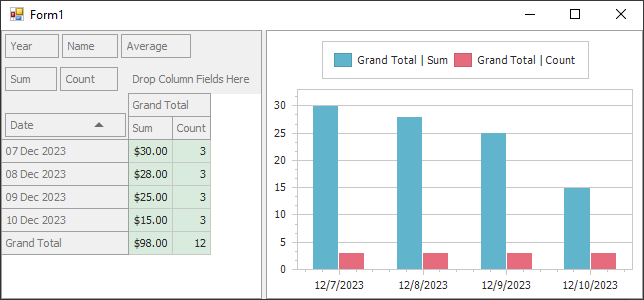
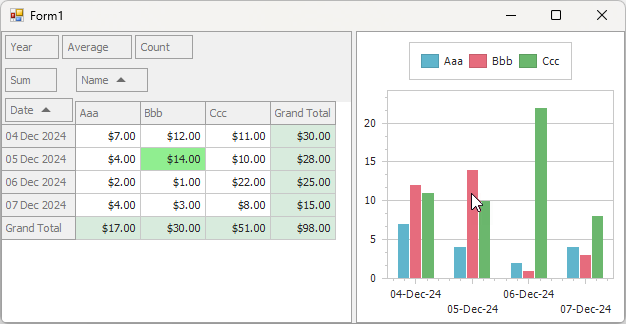
update layout

diff --git a/CS/WindowsApplication53/Form1.Designer.cs b/CS/WindowsApplication53/Form1.Designer.cs
@@ -72,7 +72,7 @@ namespace WindowsApplication53
             this.pivotGridControl1.Location = new System.Drawing.Point(0, 0);
             this.pivotGridControl1.Name = "pivotGridControl1";
             this.pivotGridControl1.OptionsChartDataSource.SelectionOnly = false;
-            this.pivotGridControl1.Size = new System.Drawing.Size(418, 292);
+            this.pivotGridControl1.Size = new System.Drawing.Size(392, 288);
             this.pivotGridControl1.TabIndex = 0;
             this.pivotGridControl1.CustomAppearance += new DevExpress.XtraPivotGrid.PivotCustomAppearanceEventHandler(this.pivotGridControl1_CustomAppearance);
             // 
@@ -106,7 +106,8 @@ namespace WindowsApplication53
             // 
             // fiedName
             // 
-            this.fiedName.AreaIndex = 1;
+            this.fiedName.Area = DevExpress.XtraPivotGrid.PivotArea.ColumnArea;
+            this.fiedName.AreaIndex = 0;
             this.fiedName.FieldName = "Name";
             this.fiedName.Name = "fiedName";
             // 
@@ -129,8 +130,7 @@ namespace WindowsApplication53
             // 
             // fieldValue1
             // 
-            this.fieldValue1.Area = DevExpress.XtraPivotGrid.PivotArea.DataArea;
-            this.fieldValue1.AreaIndex = 1;
+            this.fieldValue1.AreaIndex = 2;
             this.fieldValue1.Caption = "Count";
             this.fieldValue1.FieldName = "Value";
             this.fieldValue1.Name = "fieldValue1";
@@ -138,7 +138,7 @@ namespace WindowsApplication53
             // 
             // fieldValue2
             // 
-            this.fieldValue2.AreaIndex = 2;
+            this.fieldValue2.AreaIndex = 1;
             this.fieldValue2.Caption = "Average";
             this.fieldValue2.FieldName = "Value";
             this.fieldValue2.Name = "fieldValue2";
@@ -169,8 +169,8 @@ namespace WindowsApplication53
             // splitContainer1.Panel2
             // 
             this.splitContainer1.Panel2.Controls.Add(this.chartControl1);
-            this.splitContainer1.Size = new System.Drawing.Size(796, 292);
-            this.splitContainer1.SplitterDistance = 418;
+            this.splitContainer1.Size = new System.Drawing.Size(748, 288);
+            this.splitContainer1.SplitterDistance = 392;
             this.splitContainer1.TabIndex = 1;
             // 
             // chartControl1
@@ -181,7 +181,7 @@ namespace WindowsApplication53
             xyDiagram1.AxisX.DateTimeScaleOptions.ScaleMode = DevExpress.XtraCharts.ScaleMode.Automatic;
             xyDiagram1.AxisX.Title.Text = "Date";
             xyDiagram1.AxisX.VisibleInPanesSerializable = "-1";
-            xyDiagram1.AxisY.Title.Text = "Sum Count";
+            xyDiagram1.AxisY.Title.Text = "Sum";
             xyDiagram1.AxisY.VisibleInPanesSerializable = "-1";
             this.chartControl1.Diagram = xyDiagram1;
             this.chartControl1.Dock = System.Windows.Forms.DockStyle.Fill;
@@ -200,7 +200,7 @@ namespace WindowsApplication53
             this.chartControl1.SeriesTemplate.Label = sideBySideBarSeriesLabel1;
             this.chartControl1.SeriesTemplate.SeriesDataMember = "Series";
             this.chartControl1.SeriesTemplate.ValueDataMembersSerializable = "Values";
-            this.chartControl1.Size = new System.Drawing.Size(374, 292);
+            this.chartControl1.Size = new System.Drawing.Size(352, 288);
             this.chartControl1.TabIndex = 0;
             this.chartControl1.ToolTipEnabled = DevExpress.Utils.DefaultBoolean.True;
             this.chartControl1.ObjectHotTracked += new DevExpress.XtraCharts.HotTrackEventHandler(this.chartControl1_ObjectHotTracked);
@@ -209,7 +209,7 @@ namespace WindowsApplication53
             // 
             this.AutoScaleDimensions = new System.Drawing.SizeF(6F, 13F);
             this.AutoScaleMode = System.Windows.Forms.AutoScaleMode.Font;
-            this.ClientSize = new System.Drawing.Size(796, 292);
+            this.ClientSize = new System.Drawing.Size(748, 288);
             this.Controls.Add(this.splitContainer1);
             this.Name = "Form1";
             this.Text = "Form1";

diff --git a/CS/WindowsApplication53/Form1.cs b/CS/WindowsApplication53/Form1.cs
@@ -1,29 +1,20 @@
 using System;
-using System.Collections.Generic;
-using System.ComponentModel;
 using System.Data;
 using System.Drawing;
-using System.Text;
-using System.Windows.Forms;
 using DevExpress.XtraCharts;
 using DevExpress.XtraPivotGrid;
 
-namespace WindowsApplication53
-{
-    public partial class Form1 : Form
-    {
-        public Form1()
-        {
+namespace WindowsApplication53 {
+    public partial class Form1 : DevExpress.XtraEditors.XtraForm {
+        public Form1() {
             InitializeComponent();
         }
-        private void Form1_Load(object sender, EventArgs e)
-        {
+        private void Form1_Load(object sender, EventArgs e) {
             PopulateTable();
             pivotGridControl1.RefreshData();
             pivotGridControl1.BestFit();
         }
-        private void PopulateTable()
-        {
+        private void PopulateTable() {
             DataTable myTable = dataSet1.Tables["Data"];
             myTable.Rows.Add(new object[] { "Aaa", DateTime.Today, 7 });
             myTable.Rows.Add(new object[] { "Aaa", DateTime.Today.AddDays(1), 4 });
@@ -39,19 +30,13 @@ namespace WindowsApplication53
             myTable.Rows.Add(new object[] { "Ccc", DateTime.Today.AddDays(3), 8 });
             myTable.Rows.Add(new object[] { "Ccc", DateTime.Today.AddDays(2), 22 });
         }
-
-
         Point hotTrackPoint = new Point(-1, -1);
-        private void chartControl1_ObjectHotTracked(object sender, DevExpress.XtraCharts.HotTrackEventArgs e)
-        {
+        private void chartControl1_ObjectHotTracked(object sender, HotTrackEventArgs e){
             SeriesPoint point = e.AdditionalObject as SeriesPoint;
-            if (point == null)
-            {
+            if (point == null) {
                 InvalidateCell(pivotGridControl1, hotTrackPoint);
                 hotTrackPoint = new Point(-1, -1);
-            }
-            else
-            {
+            } else {
                 PivotChartDataSourceRowItem coordinates = point.Tag as PivotChartDataSourceRowItem;
 
                 InvalidateCell(pivotGridControl1, hotTrackPoint);
@@ -61,14 +46,12 @@ namespace WindowsApplication53
             }
         }
 
-        private void InvalidateCell(DevExpress.XtraPivotGrid.PivotGridControl pivot, Point cell)
-        {
+        private void InvalidateCell(PivotGridControl pivot, Point cell) {
             if (cell != new Point(-1, -1))
                 pivot.Invalidate(pivot.Cells.GetCellInfo(cell.X, cell.Y).Bounds);
         }
 
-        private void pivotGridControl1_CustomAppearance(object sender, DevExpress.XtraPivotGrid.PivotCustomAppearanceEventArgs e)
-        {
+        private void pivotGridControl1_CustomAppearance(object sender, PivotCustomAppearanceEventArgs e) {
             if (hotTrackPoint == new Point(-1, -1)) return;
             if (e.RowIndex == hotTrackPoint.Y && e.ColumnIndex == hotTrackPoint.X)
                 e.Appearance.BackColor = Color.LightGreen;
